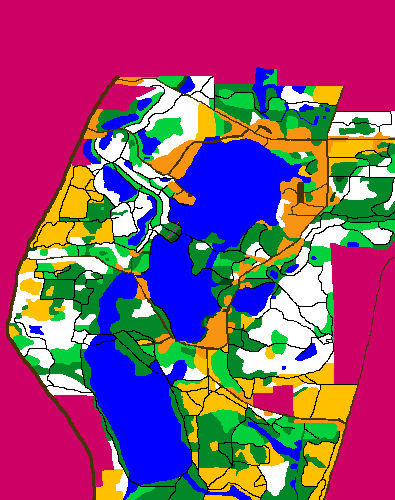
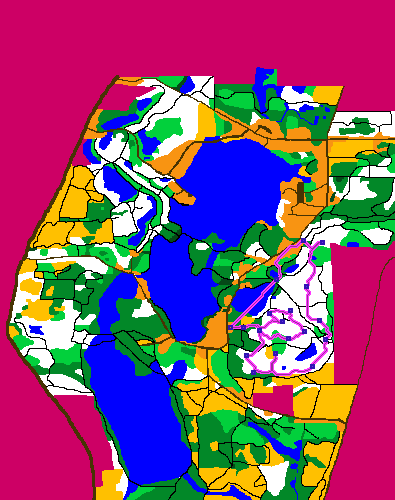
refactored drawing

Changed region(s): [[0.5772, 0.48, 0.8506, 0.75]]

diff --git a/Orienteering.py b/Orienteering.py
@@ -179,12 +179,12 @@ def astar(map, start, goal):
 def main(terrain_image, elevation_file, path_file, season, output):
     map = makeMap(terrain_image, elevation_file)
     path, visited, stops = runCourse(map, path_file)
-    constructRender("output/elevationPathMap.png",map=map, path=path, stops=stops ,outline=0)
-    constructRender("output/visitedMap.png",map=map,visited=visited,stops=stops ,outline=0)
-    constructRender("output/pathMap.png",terrain=terrain_image, path=path, stops=stops ,outline=0)
+    constructRender("output/elevationPathMap.png",map=map, path=path, stops=stops )
+    constructRender("output/visitedMap.png",map=map,visited=visited,path=path,stops=stops ,outline=0)
+    constructRender("output/pathMap.png",terrain=terrain_image, path=path, stops=stops ,outline=1)
 
 
 
 if __name__ == '__main__':
-    main("testcases/default/terrain.png", "testcases/default/mpp.txt", "testcases/default/easy.txt", "winter",
+    main("testcases/default/terrain.png", "testcases/default/mpp.txt", "testcases/default/red.txt", "winter",
          "redWinter.png")
